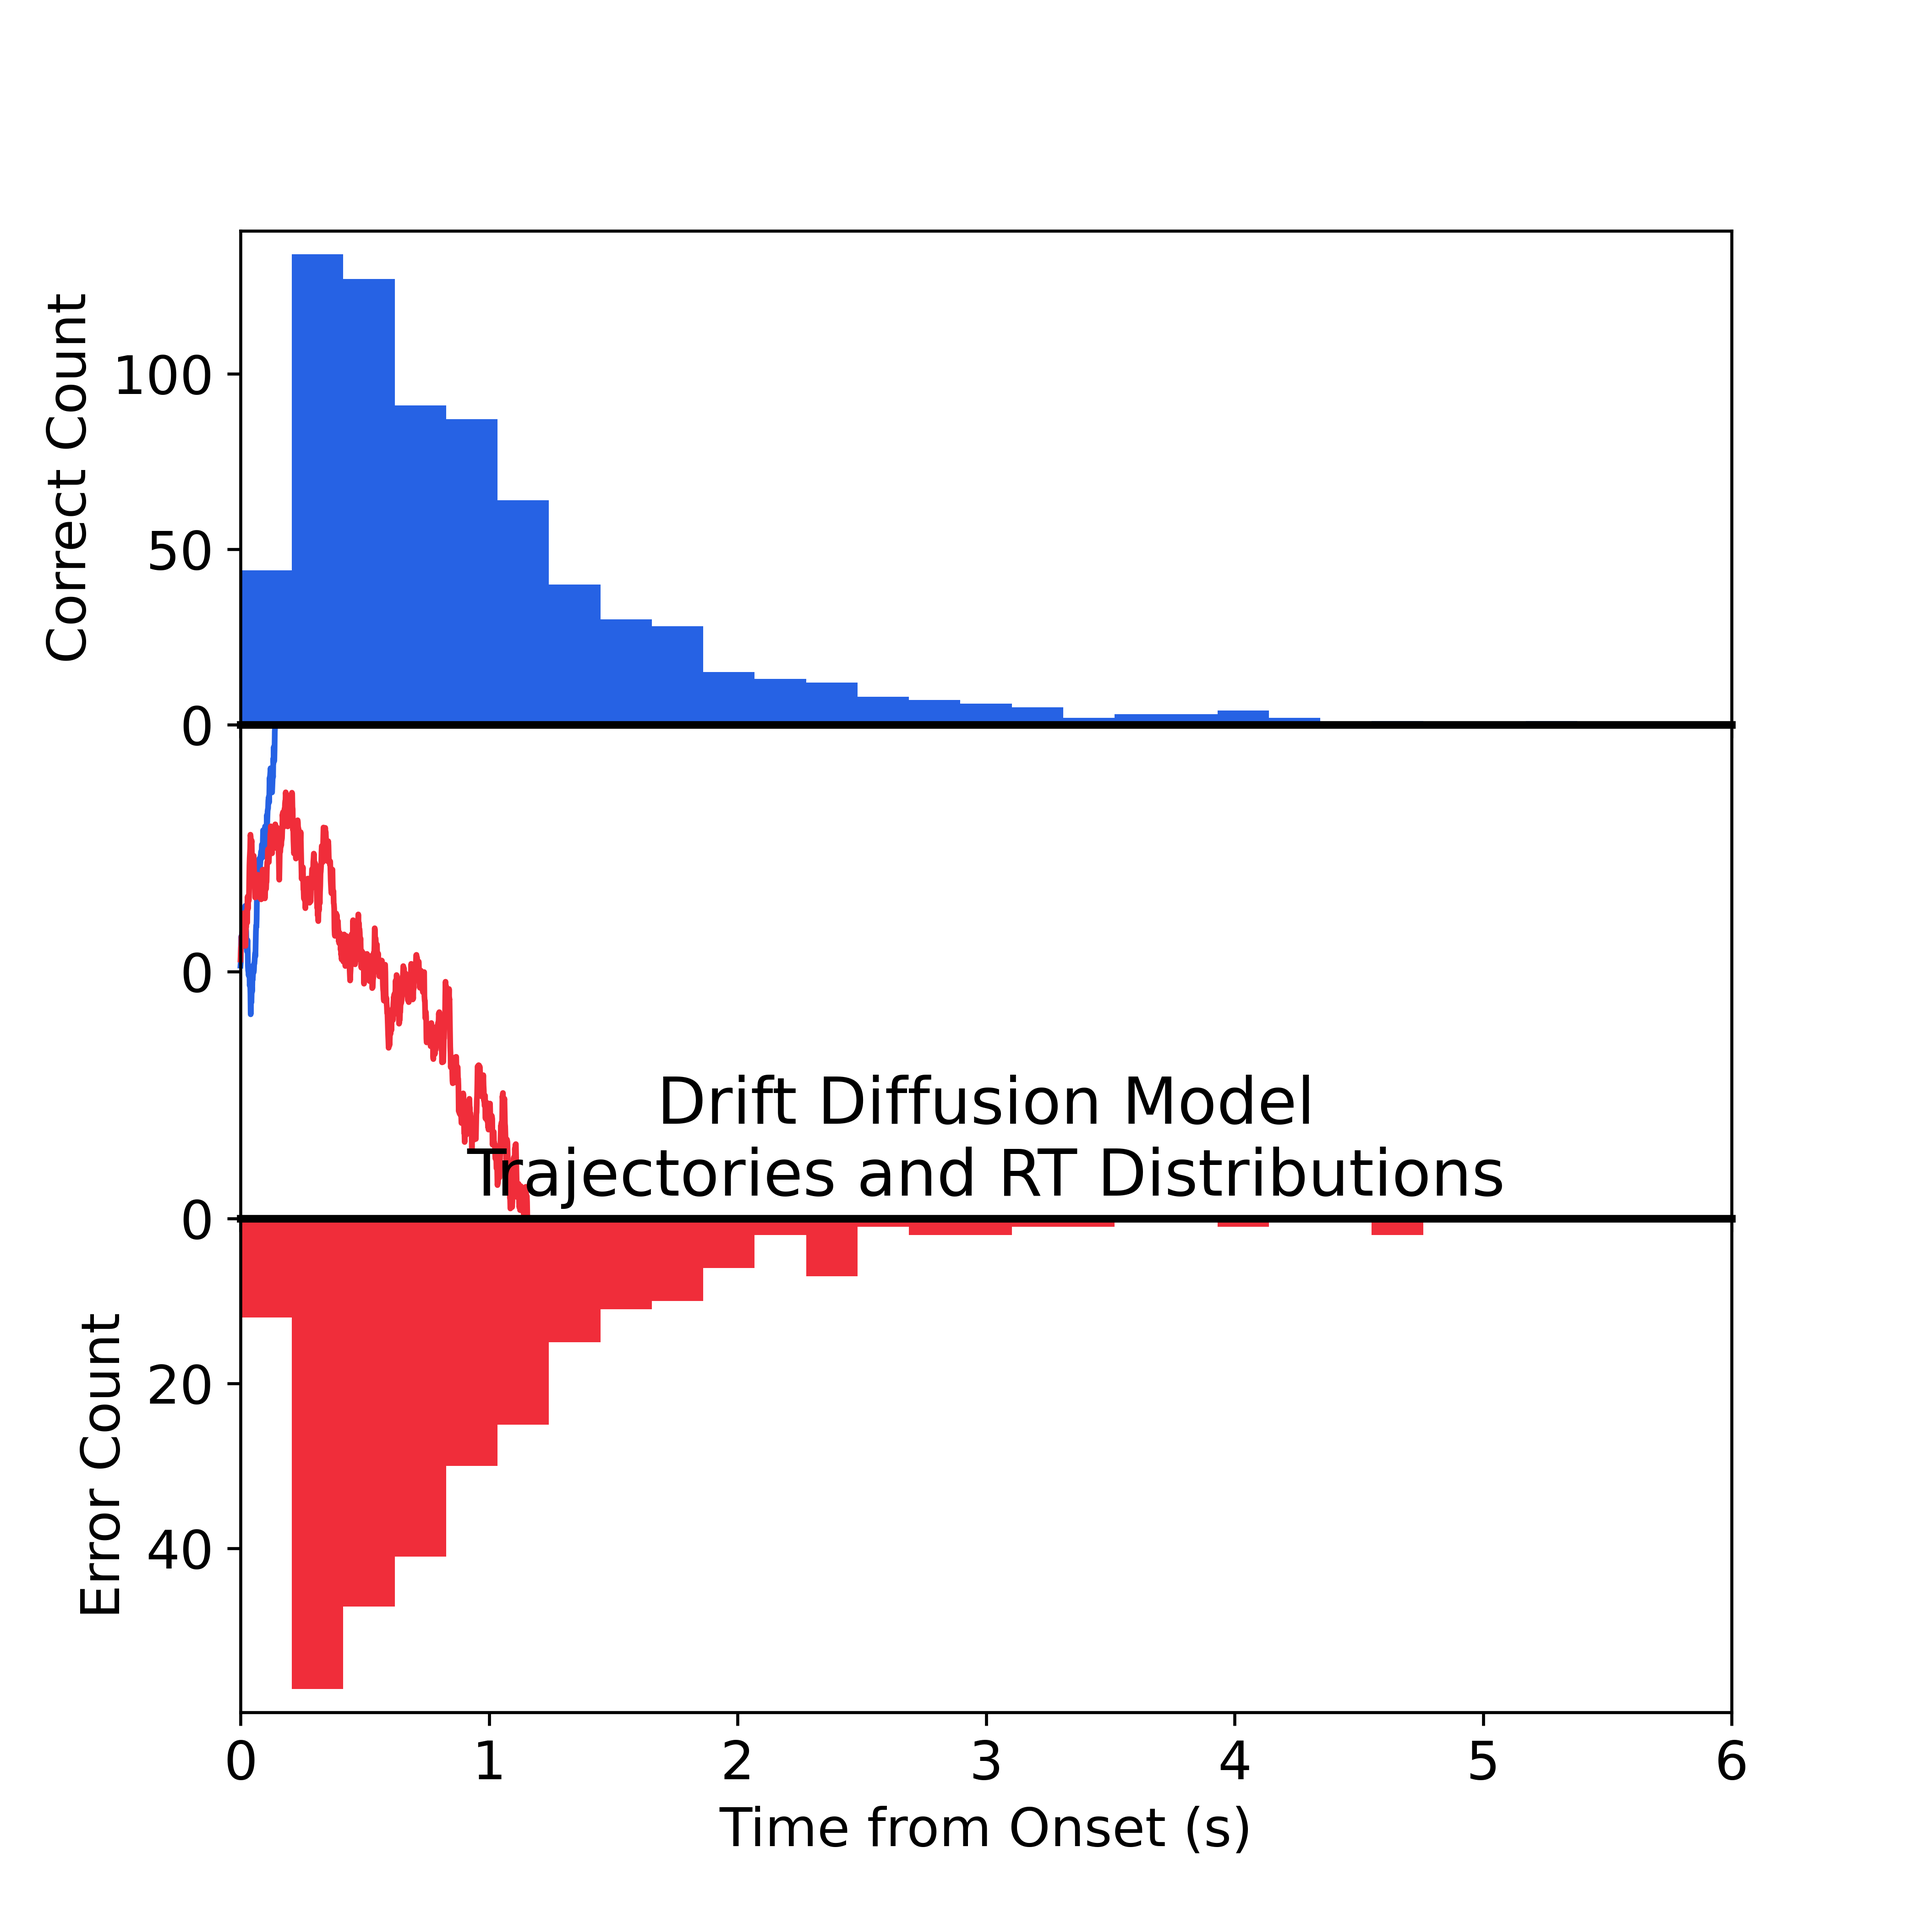
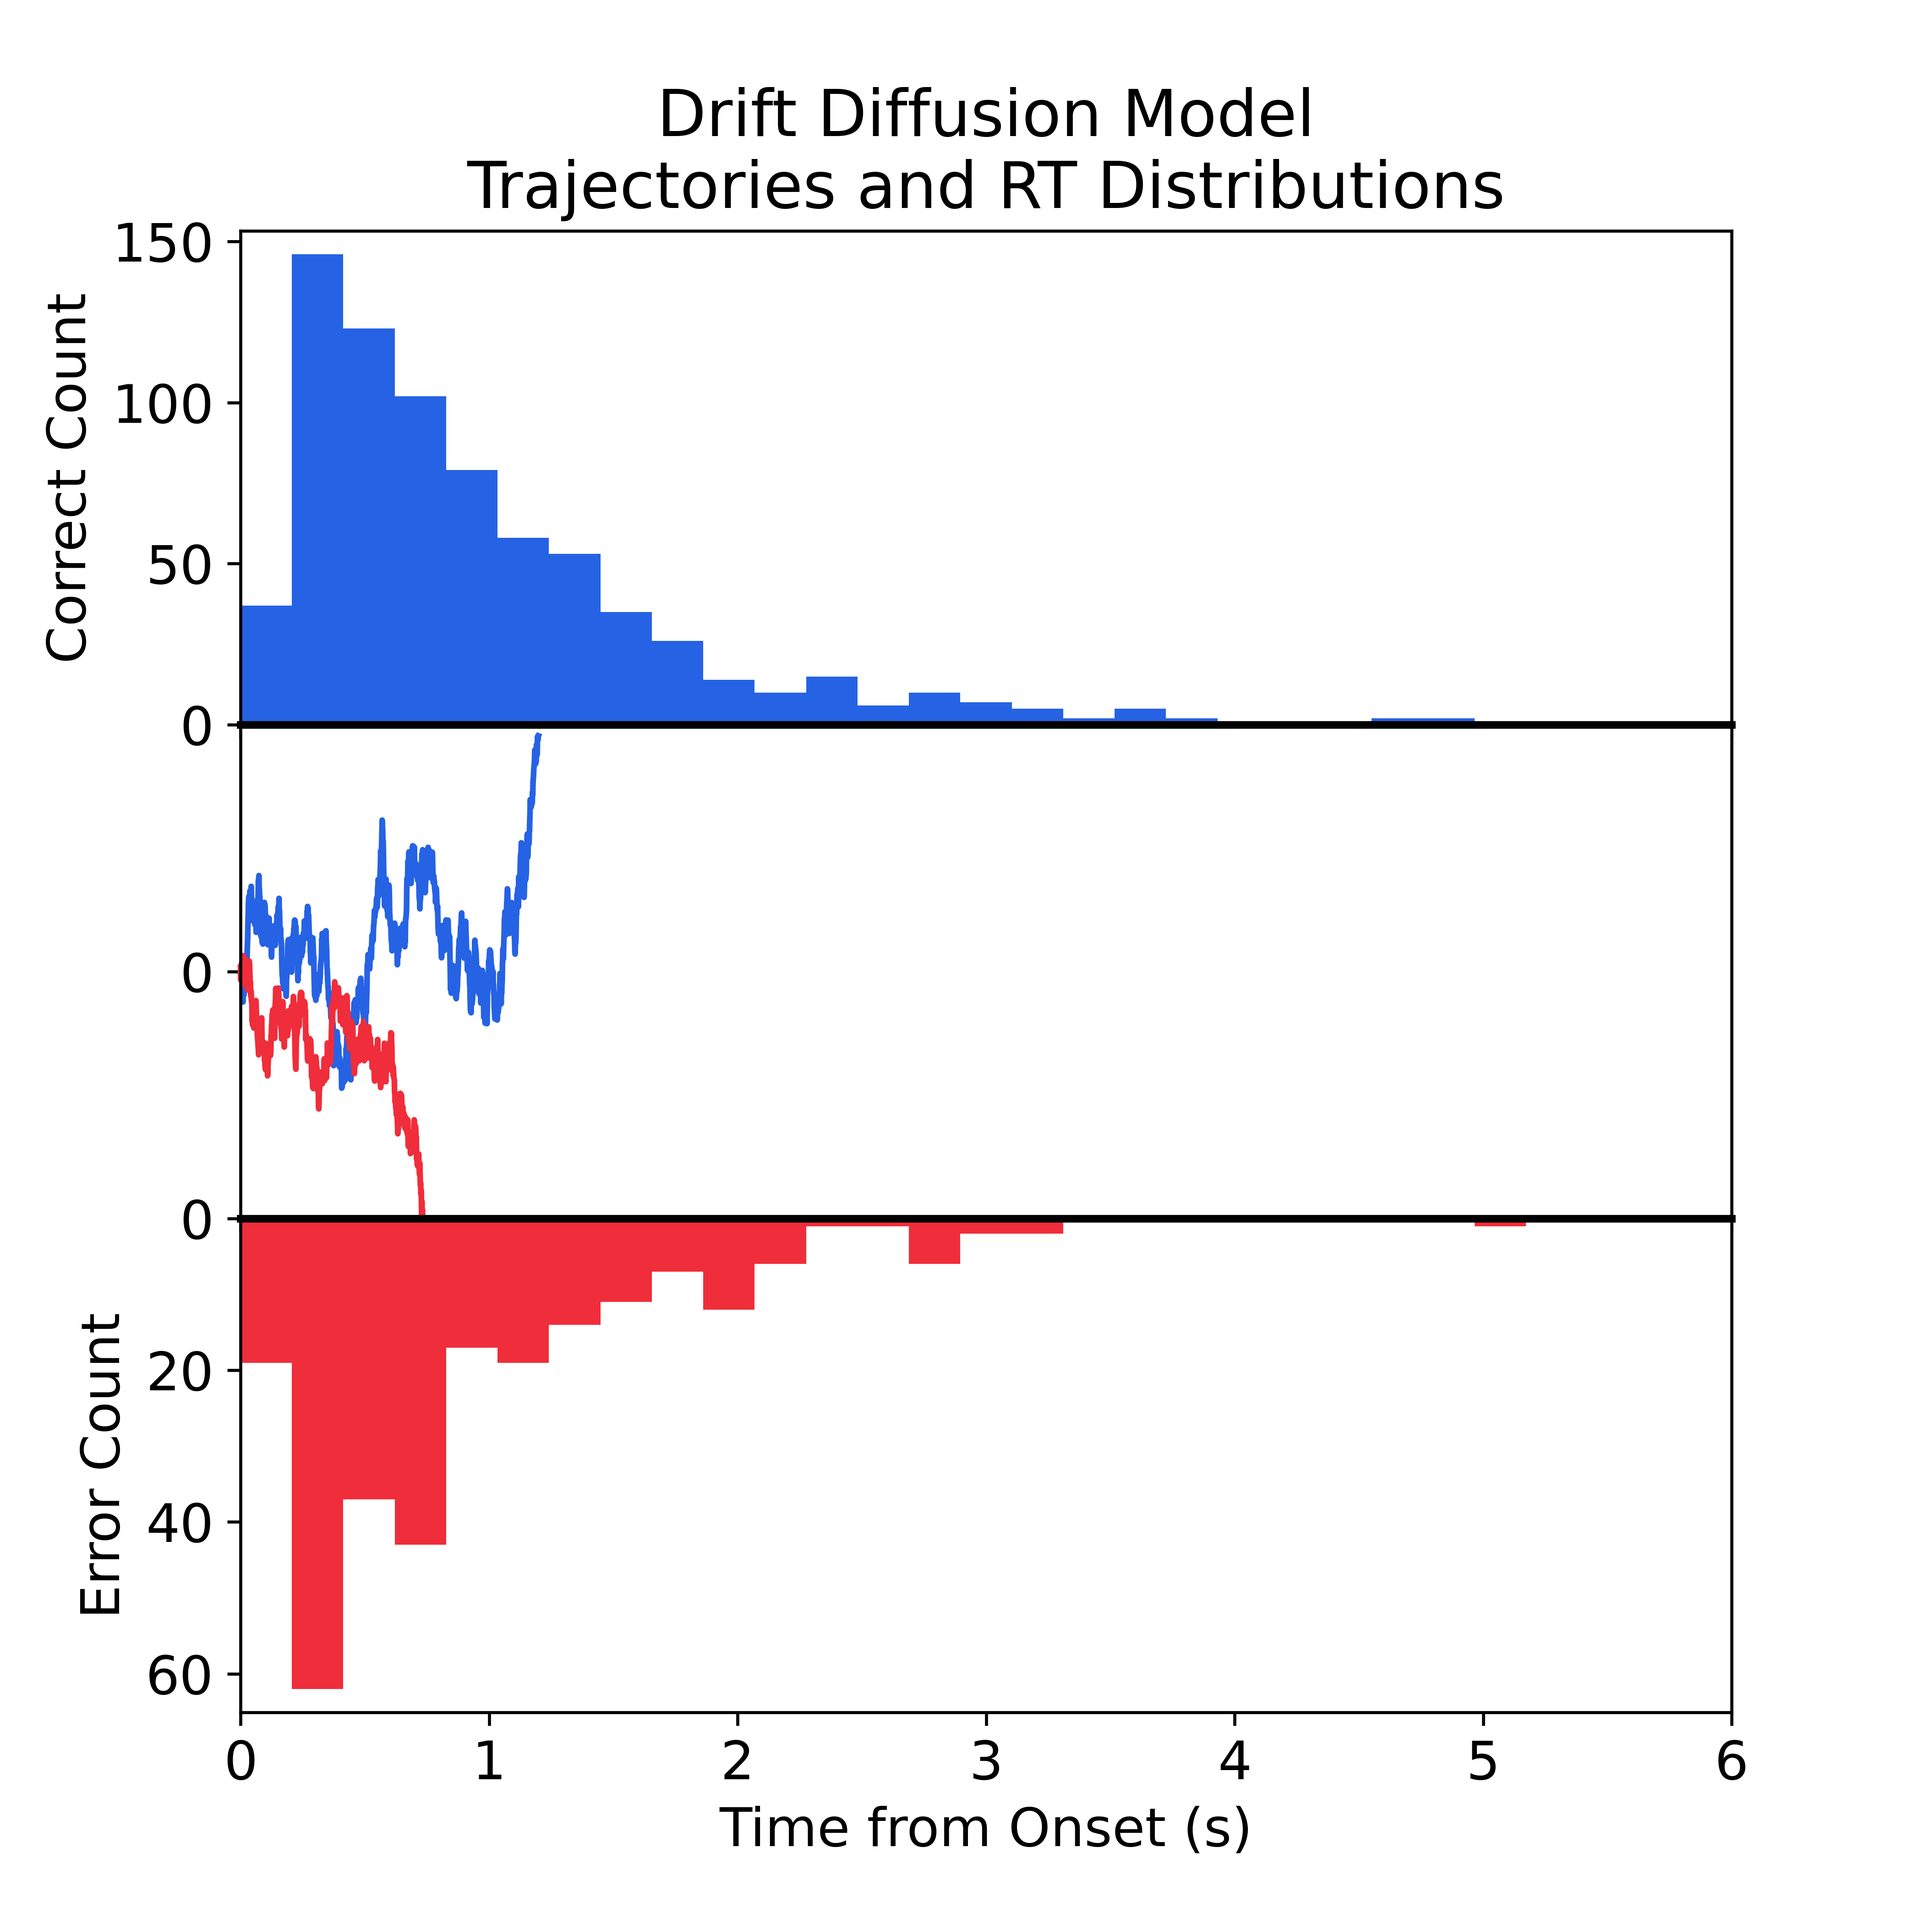
Last updates before pulling from main

diff --git a/code/plottingddm.py b/code/plottingddm.py
@@ -69,7 +69,7 @@ def plot_trajectories_and_RT(S, hits, errs, traj, mu, t, bins, colors):
    axes[0].hist(S[hits[0],1], bins, color=colors[0]);
    axes[0].set_ylabel('Correct Count');
    #axes[0].scatter(t[ranget[0]], 1, 30,color='white', marker='o')
-   ax.set_title('Drift Diffusion Model\nTrajectories and RT Distributions')
+   axes[0].set_title('Drift Diffusion Model\nTrajectories and RT Distributions')
 
    axes[1].plot(t[0:ranget[0]], traj[trialExample[0],0:ranget[0]].T, color=colors[0], clip_on=False);    
    axes[1].plot(t[0:ranget[1]], traj[trialExample[1],0:ranget[1]].T, color=colors[1], clip_on=False);
